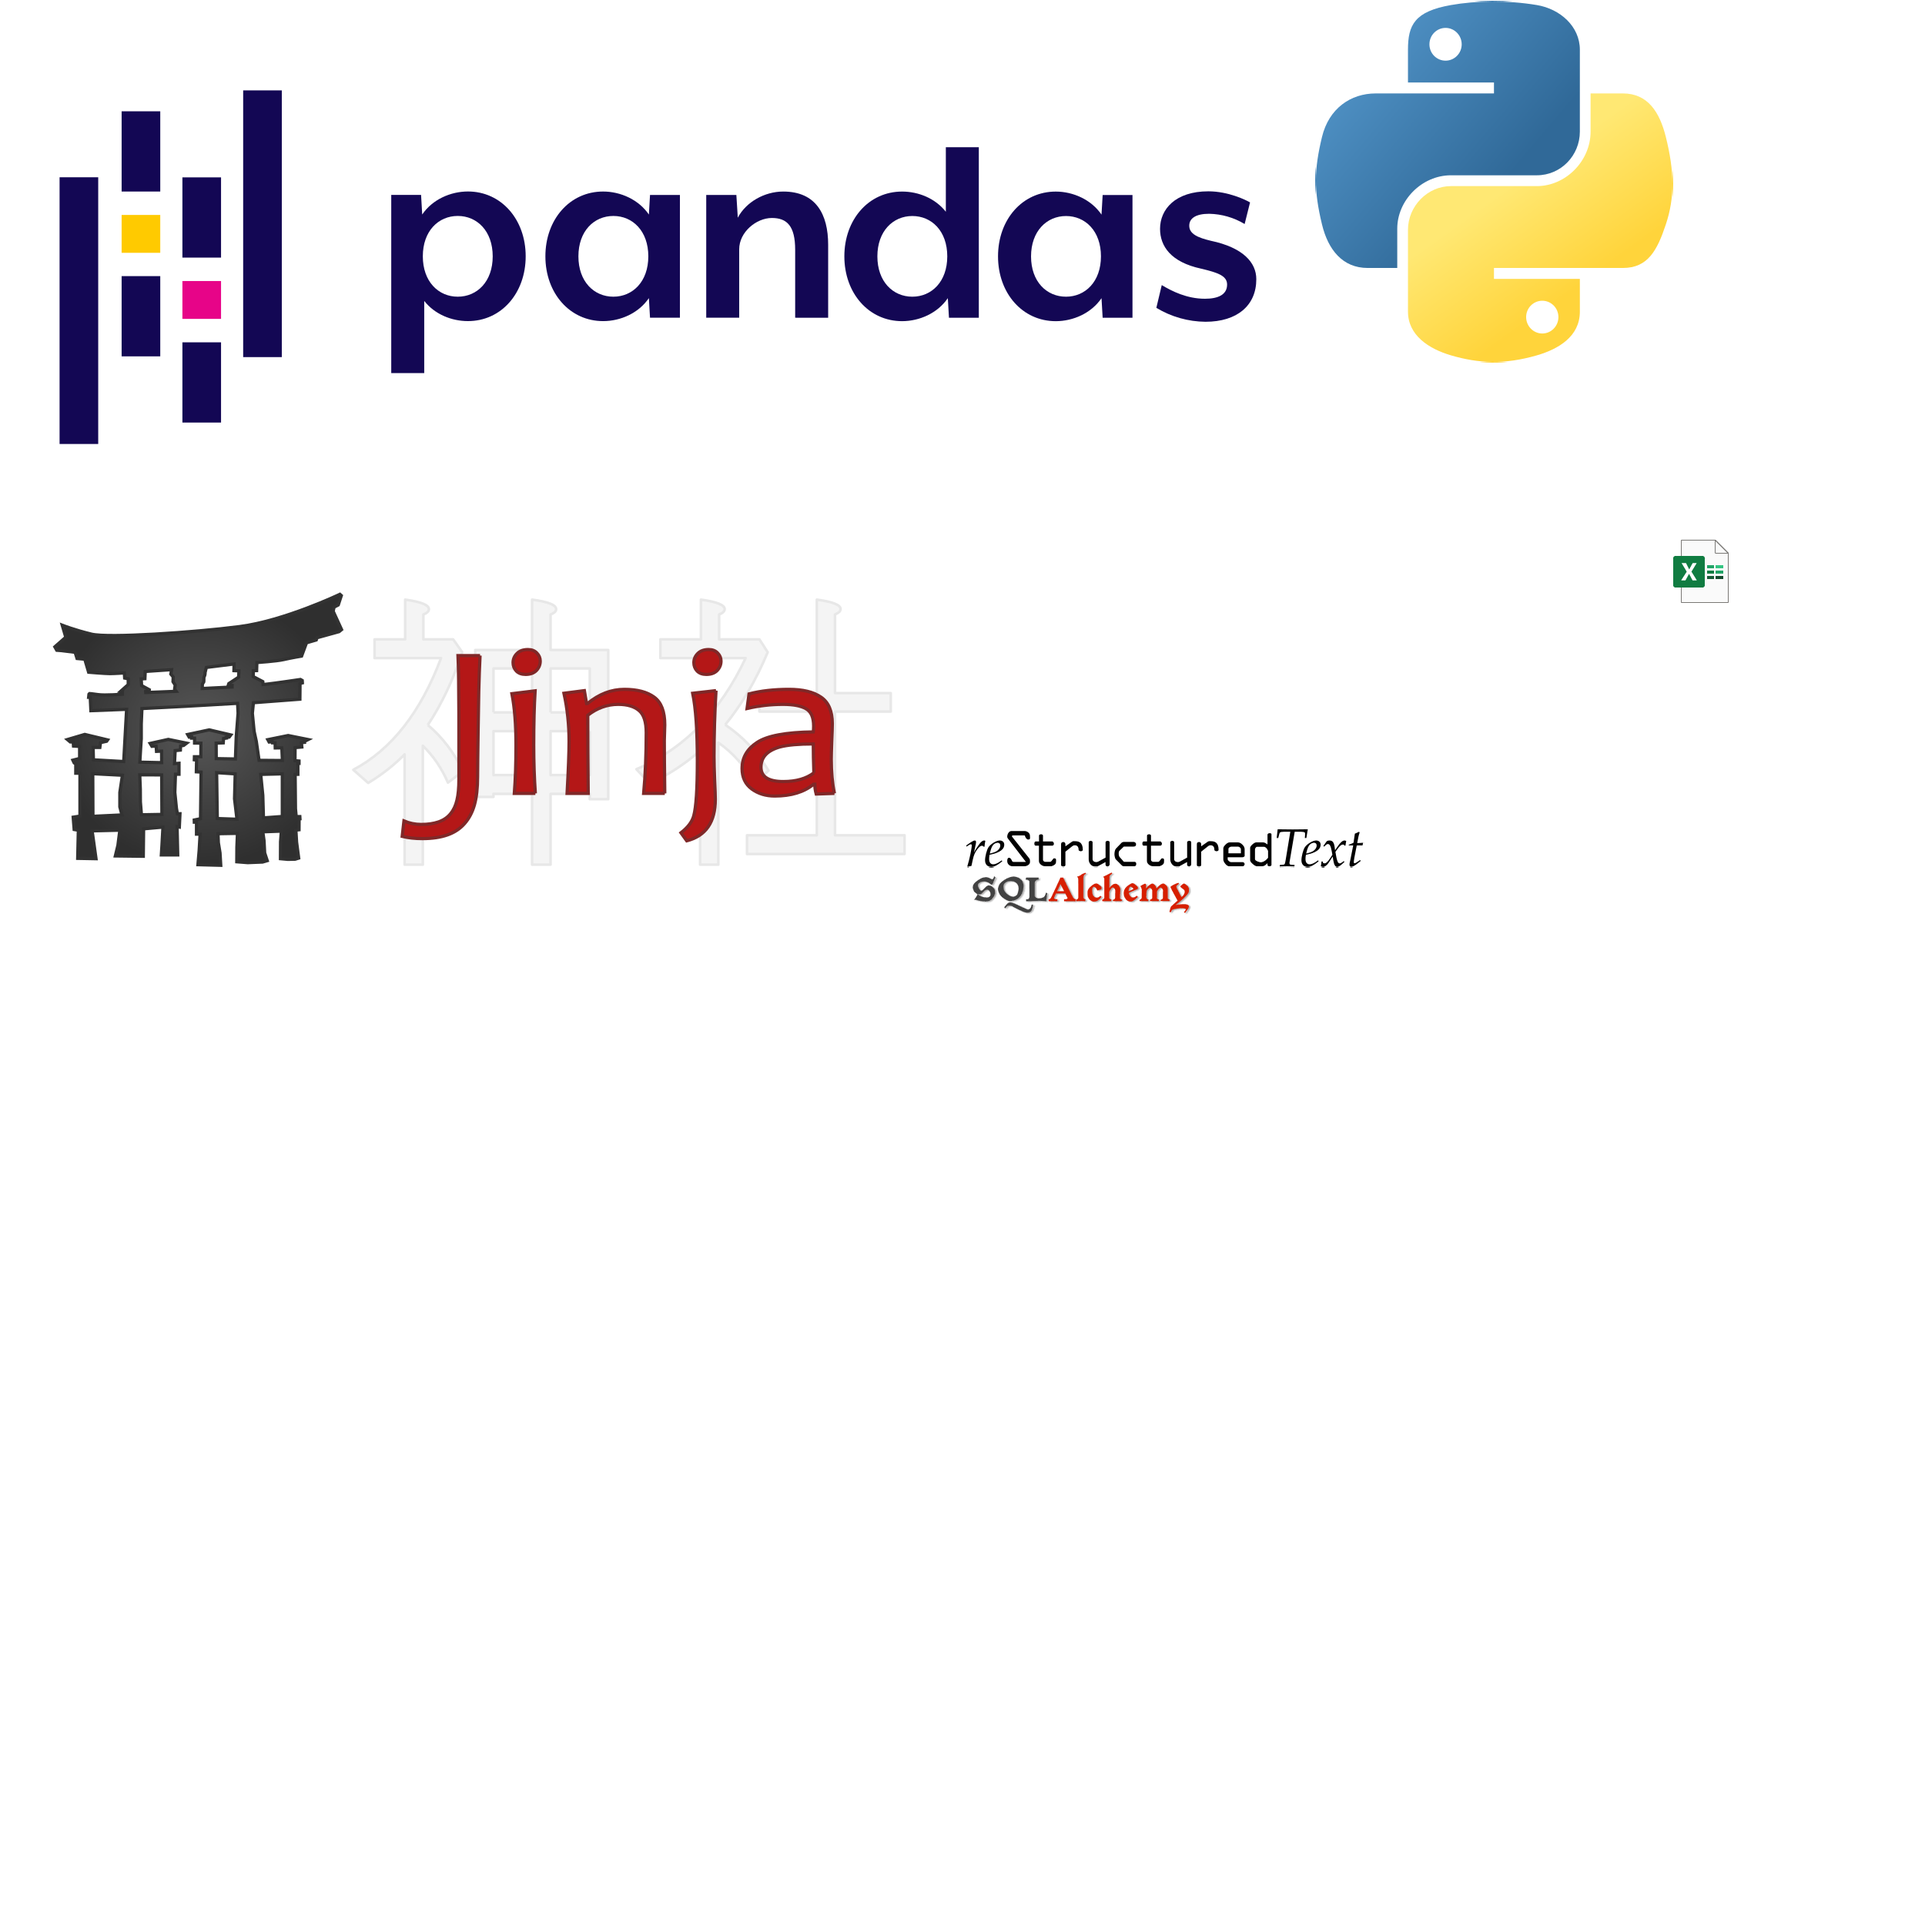
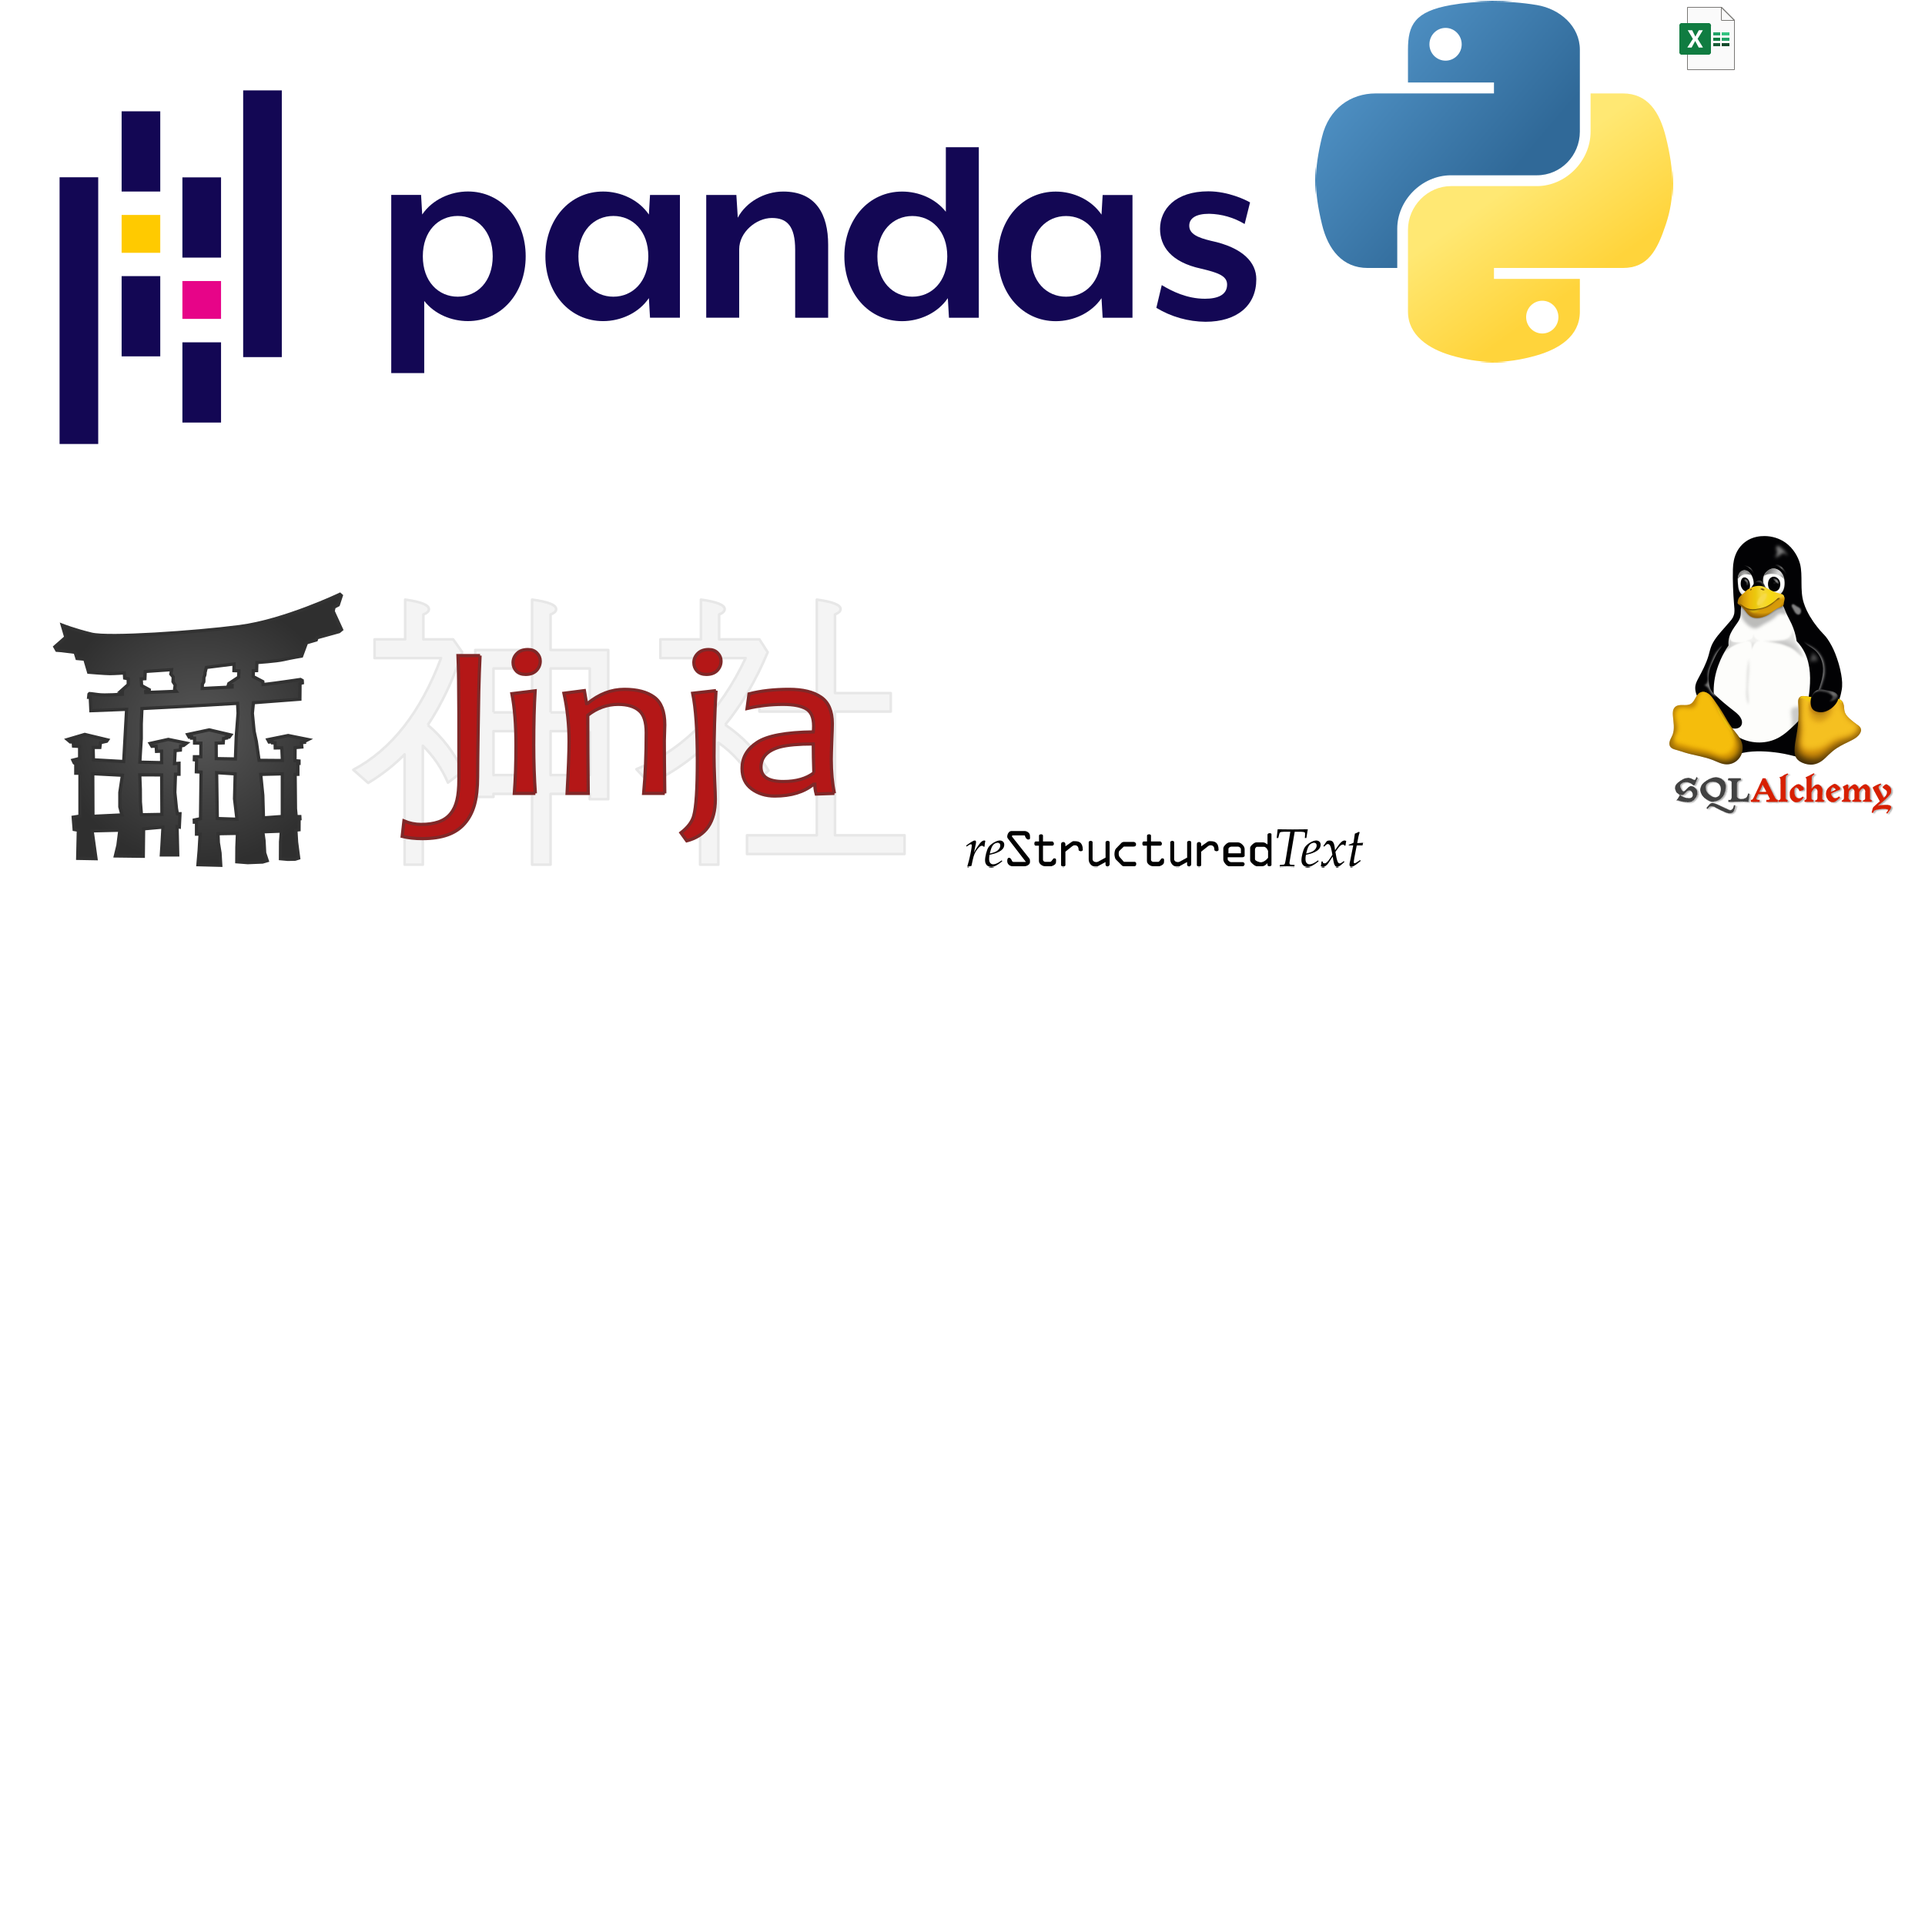
add linux category

Changed region(s): [[0.8736, 0.2808, 0.9984, 0.4368], [0.4992, 0.4368, 0.624, 0.468], [0.8736, 0.0, 0.9048, 0.0312]]

diff --git a/kvnoteafly/db/models.py b/kvnoteafly/db/models.py
@@ -103,6 +103,7 @@ class NoteCategory(IntEnum):
     Excel = 11
     Docker = 12
     Bash = 13
+    Linux = 14
 
 
 class Note(Base, DictMixin):
